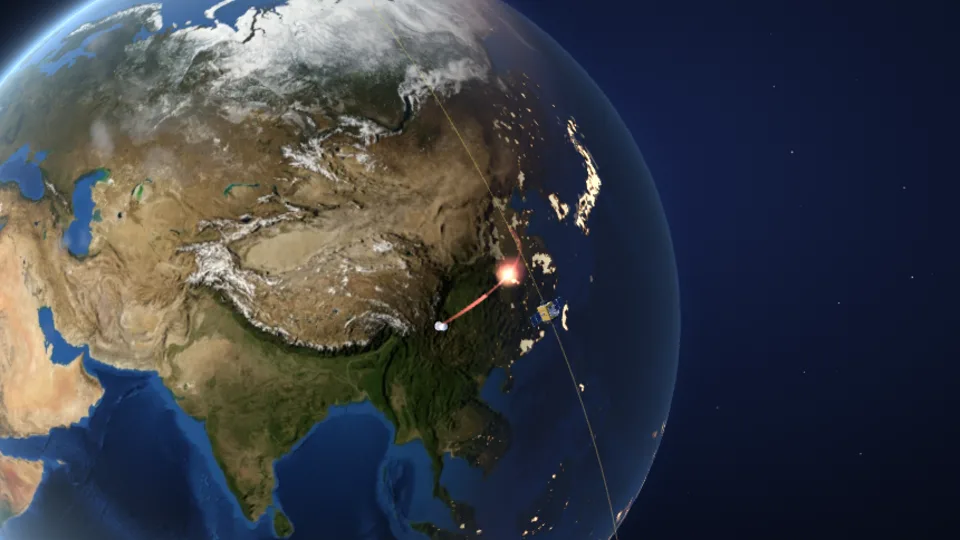
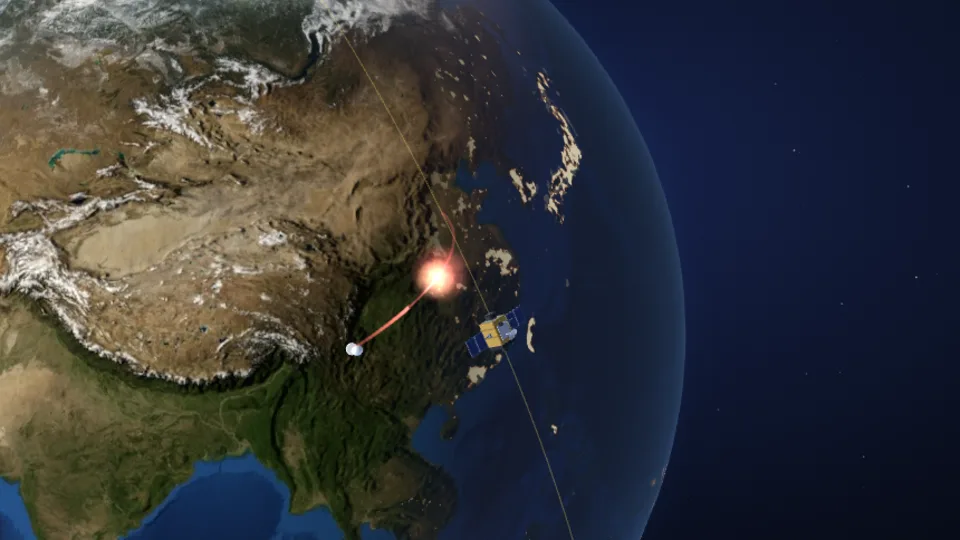
Scene fixes from checks (RPO callouts live only, GNSS Baltic label, Shakti and Burnt Frost label offsets), regenerate six posters
Claude-Session: https://claude.ai/code/session_01RyENr88bMjMEvXCVeqzctV

diff --git a/counterspace/src/scenes/configs/gnss.js b/counterspace/src/scenes/configs/gnss.js
@@ -51,7 +51,7 @@ export const GNSS = {
       dy: 18,
       jammer: { at: [56.5, 21.0], label: 'Ground jammer', short: 'Jammer', dx: -70, dy: 30 },
     },
-    { type: 'place', at: [59.6, 19.4], label: 'Baltic Sea', color: '#cfd8ea' },
+    { type: 'place', at: [60.4, 18.6], label: 'Baltic Sea', color: '#cfd8ea' },
     {
       type: 'aircraft',
       path: [
@@ -101,6 +101,7 @@ export const GNSS = {
   insetSize: [132, 104],
   insetRing: true, // the top view is one GPS orbit ring with a few satellites on it, not every orbit plane (those read as an atom)
   liveOff: { 'Jammer effect zone': [80, -30] }, // desktop: a leader runs from the label to the zone's edge
+  stillHideText: ['Baltic Sea'], // the print drops the place name: it would sit on Airliner 1's leader
   noJamArrow: true, // the jammed link gets no edge arrowhead (it would read as a stray marker at the frame border)
   sunView: { az: 30, el: 32 }, // a higher, more frontal sun: the Baltic terrain is lit, not olive and murky
   phoneHide: ['Jammer', 'Ground jammer', 'Jammer effect', 'GPS signal', 'Baltic Sea'], // 375: two labels (the airliners, whose colour is the story); the jammer and zone are named by the status line and the red dome
@@ -111,7 +112,7 @@ export const GNSS = {
       short: 'Baltic zone',
       at: [38, 11, 1.42],
       look: [51.8, 22.6, 0.98],
-      phone: { at: [38, 11, 1.26] },
+      phone: { at: [38, 11, 1.33] },
     },
     {
       name: 'Close up: jammer zone and Airliner 1',

diff --git a/counterspace/src/scenes/configs/shakti.js b/counterspace/src/scenes/configs/shakti.js
@@ -26,7 +26,7 @@ export const SHAKTI = {
   phoneHide: ['Abdul Kalam'], // 375: two labels at the burst (the island is in the status line)
   fitFill: IS_PHONE ? 0.62 : 0.6, // the follow camera frames the launch and the target a little tighter, so the interceptor reads as a rocket
   camHide: { 3: ['Abdul Kalam', 'PDV', 'LEO'] }, // Polar: the strike is a few px wide there, so its neighbours' labels are dropped
-  liveOff: { 'Abdul Kalam': [-34, 50], 'PDV': [-86, -46], 'Microsat-R': [172, -14] }, // the two pills sit on opposite sides of the strike, one above and one below
+  liveOff: { 'Abdul Kalam': [-34, 66], 'PDV': [-86, -46], 'Microsat-R': [172, -14] }, // the two pills sit on opposite sides of the strike, one above and one below
   phoneOff: { 'Abdul Kalam': [-40, 46] }, // 375: the island label hangs clear of the trail head
   hit: { lat: 26.0, lon: 95.0, alt: 300, inc: 96.6, t: 0.38, wa: 0.15, wf: 0.5 },
   actors: [

diff --git a/counterspace/src/scenes/configs/burnt-frost.js b/counterspace/src/scenes/configs/burnt-frost.js
@@ -23,6 +23,7 @@ export const BURNT_FROST = {
   seaK: IS_PHONE ? 2.2 : 0.8, // the Pacific is dark even in daylight: lifted so the ship and satellite separate from it
   phoneOff: { 'Larger pieces': [112, -50], 'Pieces falling': [112, -50] }, // 375: the label sits right of the debris cloud, not over it
   launchAt: [3.3, 0.95, 0.8],
+  camHide: { 3: ['Impact'] }, // Polar: the debris cloud is small there and the pill would sit on the disc
   earlyKey: true,
   hit: { lat: 29.0, lon: -173.0, alt: 220, inc: 58.5, t: 0.42, wa: 0.15, wf: 0.5 },
   actors: [
@@ -32,8 +33,8 @@ export const BURNT_FROST = {
       label: 'USA-193',
       color: C.tgt,
       big: 1.7,
-      minPx: 70,
-      maxPx: 120,
+      minPx: 60,
+      maxPx: 100,
       impactFollow: true, // the Impact pill follows the debris centre once the cloud has spread
       bright: true,
       fall: [

diff --git a/counterspace/src/scenes/svg/items.js b/counterspace/src/scenes/svg/items.js
@@ -149,6 +149,7 @@ function drawCloud(S, it) {
 // A beam: a tapered or plain line between two ends, recorded as a polyline; may carry a label.
 function drawBeam(S, it) {
   const { sim, opts, t, g, project, obst, dPolys, NARROW, label } = S;
+  if (it.liveOnly) return; // opt-in: a live-view aid (the RPO distance callouts) the static diagram leaves out
   const A = it.a(t),
     B = (!opts.panel && it.bStatic?.(t)) || it.b(t);
   if (A && B && it.on(t)) {

diff --git a/counterspace/src/scenes/sim.js b/counterspace/src/scenes/sim.js
@@ -164,6 +164,7 @@ export function buildSim(cfg) {
     if (a.type === 'range')
       items.push({
         kind: 'beam',
+        liveOnly: true,
         soft: true,
         opacity: a.opacity ?? 0.55,
         width0: 0.0011,
